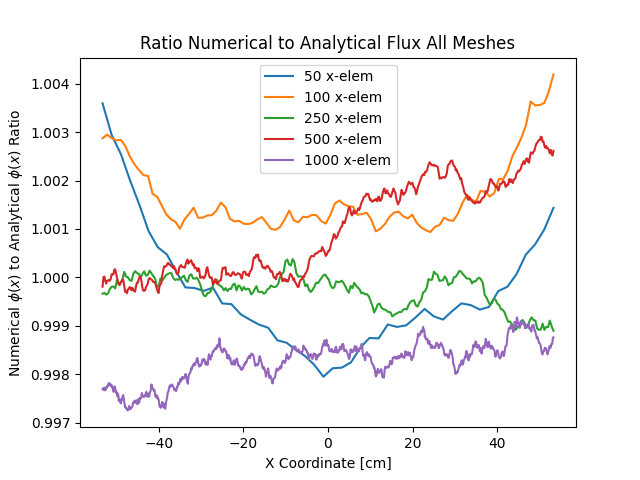
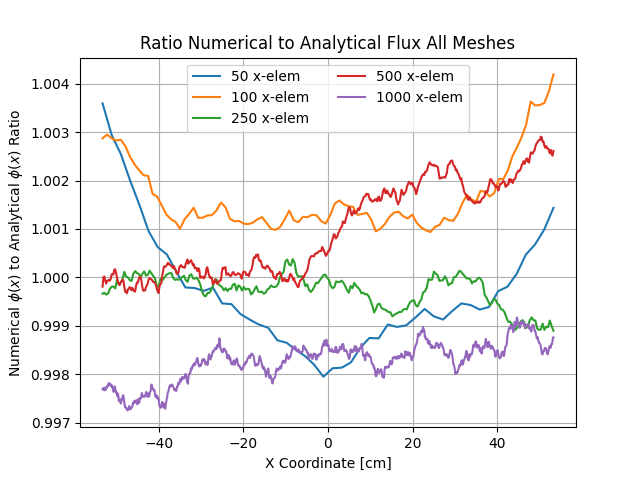
added temp C/E and improvements to the C/E plot quality

diff --git a/simulations/visualization/visualize_results.py b/simulations/visualization/visualize_results.py
@@ -9,9 +9,12 @@ n_elems = [50,100,250,500,1000]
 log_N = np.log(n_elems)
 L = 106.47 # equilibrium length from paper
 P = 1.0e22 # eV/s
+T0 = 293 # K
 phi0 = 2.5e14 # n/cm^2-s
 q = 1e8 # ev/s
+k0= 1.25e19 # eV/(s-cm-K^2) k(T) = k0 T(x)
 lam = 0.5*(1+np.sqrt(1+(16*q*q*phi0*phi0)/(P*P)))
+Sig_t0 = np.sqrt(P/((lam-1)*k0*L))/(T0)
 
 error_data = [] # list to house the error for each mesh size
 for n in n_elems:
@@ -100,15 +103,20 @@ for n in n_elems:
 # dictioinaries for flux results and comparisons to temp and analytical solution key is number of elements
 ratios_T_to_phi = {} # list of ratios of temp to flux for each element
 analytical_phi = {}
+analytical_T = {}
 ratios_flux_num_to_analy = {}
+ratios_temp_num_to_analy = {}
 # compute T/phi for each case
 for n in n_elems:
     ratios_T_to_phi[n] = [] # empty list to store ratios T to phi
+    ratios_temp_num_to_analy[n] = []
     ratios_flux_num_to_analy[n] = [] # empty list to store ratios numerical to analytical flux
     analytical_phi[n] = phi0*np.sqrt(1- ((lam - 1)*P*P*np.multiply(xx[n],xx[n]))/(L*L*q*q*phi0*phi0))
+    analytical_T[n] = Sig_t0*T0*np.sqrt( (q*q*L*L*phi0*phi0)/(P*P) - (lam-1)*np.multiply(xx[n],xx[n]))
     for i in range(n):
         ratios_flux_num_to_analy[n].append(float(flux_mesh_tallies[n].mean[i]/analytical_phi[n][i]))
         ratios_T_to_phi[n].append(float(temps[n][i]/flux_mesh_tallies[n].mean[i]))
+        ratios_temp_num_to_analy[n].append(float(temps[n][i]/analytical_T[n][i]))
     # numerical to analytical ratio
     plt.plot(xx[n],ratios_flux_num_to_analy[n],'-go',label=f"{n} x-elem")
     plt.xlabel("X Coordinate [cm]")
@@ -126,15 +134,25 @@ for n in n_elems:
     plt.savefig(f"ratio_T_to_flux_{n}.png")
     plt.clf()
 
+# plot all temp error ratios on one plot
+for n in n_elems:
+    plt.plot(xx[n],ratios_temp_num_to_analy[n],label=f"{n} x-elem")
+plt.xlabel("X Coordinate [cm]")
+plt.ylabel(r"Numerical $T(x)$ to Analytical $T(x)$ Ratio")
+plt.title(f"Ratio Numerical to Analytical Temp All Meshes")
+plt.legend(ncol=2)
+plt.grid()
+plt.savefig("temp_num_to_analy_ratios.png")
+plt.clf()
 
-
-# plot all error ratios on one plot
+# plot all flux error ratios on one plot
 for n in n_elems:
     plt.plot(xx[n],ratios_flux_num_to_analy[n],label=f"{n} x-elem")
 plt.xlabel("X Coordinate [cm]")
 plt.ylabel(r"Numerical $\phi(x)$ to Analytical $\phi(x)$ Ratio")
 plt.title(f"Ratio Numerical to Analytical Flux All Meshes")
-plt.legend()
+plt.legend(ncol=2)
+plt.grid()
 plt.savefig("flux_num_to_analy_ratios.png")
 plt.clf()
 
